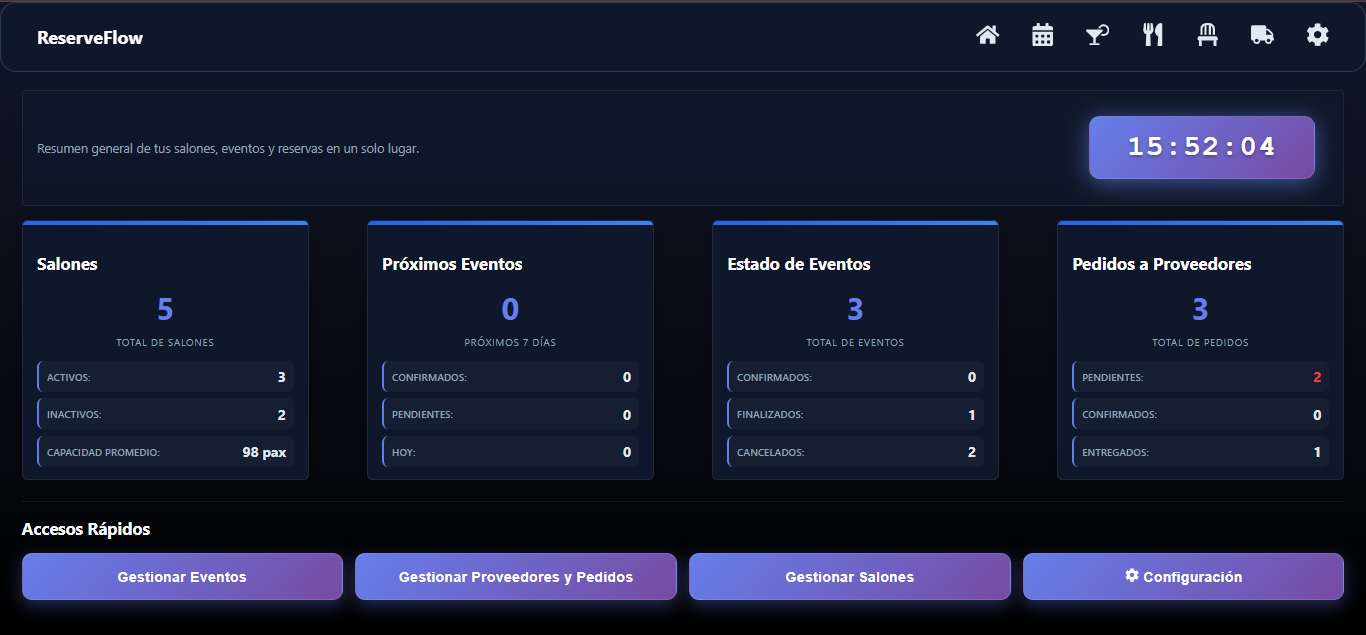
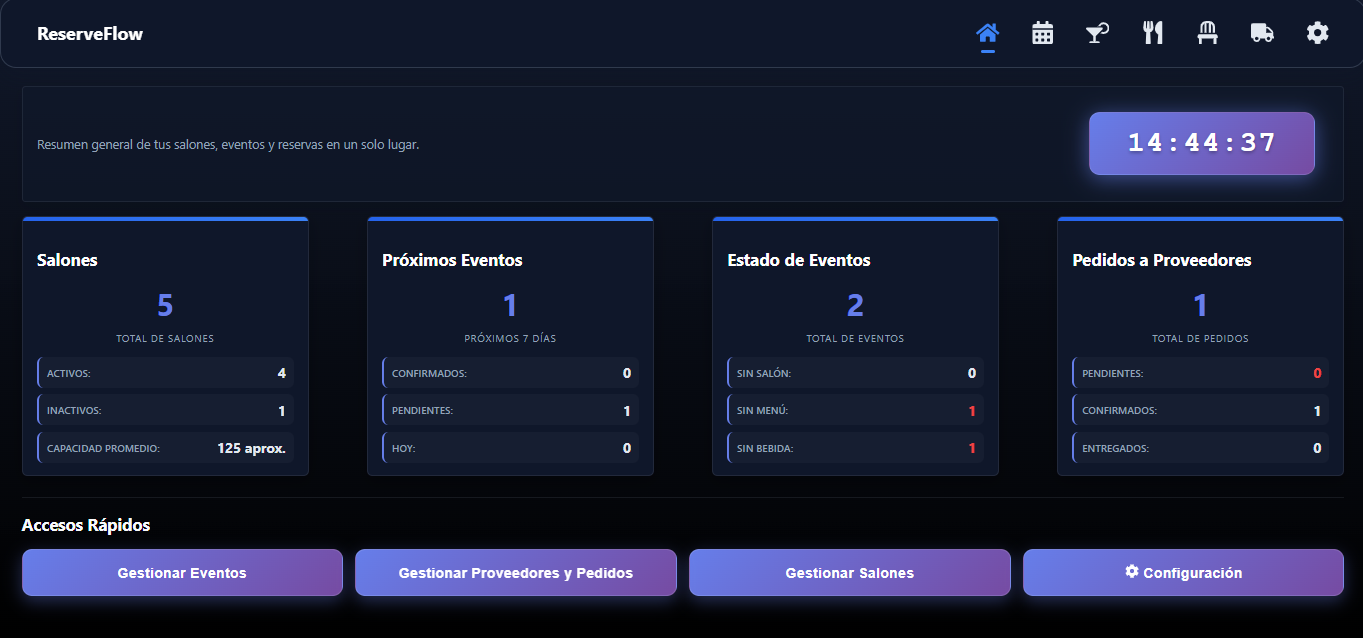
fix actualizacion

diff --git a/src/components/Projects.jsx b/src/components/Projects.jsx
@@ -4,6 +4,7 @@ import { FaGithub, FaChevronLeft, FaChevronRight, FaStar } from 'react-icons/fa'
 import dashboardImg from '../img/dashboard.png';
 import reservaImg from '../img/reserva.png';
 import proveedoresImg from '../img/proveedores.png';
+import numeriaImg from '../img/numeria.png';
 
 const projects = [
   {
@@ -20,6 +21,17 @@ const projects = [
     ]
   },
   {
+    id: 4,
+    title: 'Numeria - Gestor de Stock & Asistente IA',
+    description: 'Sistema de gestión de ventas, proveedores e inventario con control de productos críticos. Integra a "Numerito AI", un asistente inteligente potenciado por la API de Gemini para consultas operacionales en tiempo real.',
+    tags: ['React', 'TypeScript', 'Node.js', 'Python', 'Gemini API', 'SQL'],
+    githubUrl: '', // Se agregará al estar avanzado el repositorio
+    featured: true,
+    images: [
+      { url: numeriaImg, alt: 'Dashboard Numeria con Asistente IA' }
+    ]
+  },
+  {
     id: 2,
     title: 'Trimly - SaaS de Gestión Integral',
     description: 'Plataforma integral para centros de estética y peluquerías. Integra 9 módulos y más de 40 funcionalidades para automatizar turnos, caja y gestión de clientes.',
@@ -33,14 +45,6 @@ const projects = [
     description: 'Herramienta desarrollada para el cálculo automatizado de varianza, desviación estándar y distribución de frecuencias con procesamiento rápido de datos.',
     tags: ['Python', 'Librerías Matemáticas'],
     githubUrl: 'https://github.com/TomasAliberti07/Estadistica',
-    featured: false
-  },
-  {
-    id: 4,
-    title: 'Suite de Utilidades de Escritorio',
-    description: 'Colección de aplicaciones de escritorio orientadas al procesamiento de datos, lógica algorítmica y gestión gráfica (películas, generadores y herramientas de cálculo).',
-    tags: ['Python', 'Tkinter', 'POO'],
-    githubUrl: 'https://github.com/TomasAliberti07/Tkinter',
     featured: false
   }
 ];
@@ -110,15 +114,19 @@ function ProjectCard({ project }) {
               </div>
 
               <div className="project-footer">
-                <a 
-                  href={project.githubUrl} 
-                  target="_blank" 
-                  rel="noreferrer" 
-                  className="footer-link"
-                >
-                  <FaGithub />
-                  <span>Ver repositorio completo</span>
-                </a>
+                {project.githubUrl ? (
+                  <a 
+                    href={project.githubUrl} 
+                    target="_blank" 
+                    rel="noreferrer" 
+                    className="footer-link"
+                  >
+                    <FaGithub />
+                    <span>Ver repositorio completo</span>
+                  </a>
+                ) : (
+                  <span className="footer-link-disabled">Repositorio en desarrollo</span>
+                )}
               </div>
             </div>
           </div>
@@ -129,6 +137,15 @@ function ProjectCard({ project }) {
 
   return (
     <article className="project-card">
+      {project.images && project.images.length > 0 && (
+        <div className="card-image-wrapper">
+          <img 
+            src={project.images[0].url} 
+            alt={project.images[0].alt} 
+            className="project-card-image" 
+          />
+        </div>
+      )}
       <div className="project-card-body">
         <h3>{project.title}</h3>
         <p>{project.description}</p>
@@ -142,15 +159,19 @@ function ProjectCard({ project }) {
         </div>
 
         <div className="project-footer">
-          <a 
-            href={project.githubUrl} 
-            target="_blank" 
-            rel="noreferrer" 
-            className="footer-link"
-          >
-            <FaGithub />
-            <span>Ver repositorio completo</span>
-          </a>
+          {project.githubUrl ? (
+            <a 
+              href={project.githubUrl} 
+              target="_blank" 
+              rel="noreferrer" 
+              className="footer-link"
+            >
+              <FaGithub />
+              <span>Ver repositorio completo</span>
+            </a>
+          ) : (
+            <span className="footer-link-disabled">Repositorio en desarrollo</span>
+          )}
         </div>
       </div>
     </article>

diff --git a/src/App.css b/src/App.css
@@ -284,6 +284,23 @@ main {
   box-shadow: 0 0 0 1px rgba(239, 68, 68, 0.12), 0 10px 24px rgba(0, 0, 0, 0.24);
 }
 
+.card-image-wrapper {
+  width: 100%;
+  aspect-ratio: 16 / 9;
+  border-radius: 12px;
+  overflow: hidden;
+  background-color: #090d16;
+  border: 1px solid rgba(255, 255, 255, 0.1);
+  margin-bottom: 1rem;
+}
+
+.project-card-image {
+  width: 100%;
+  height: 100%;
+  object-fit: cover;
+  display: block;
+}
+
 .project-card-body {
   flex: 1;
 }
@@ -346,6 +363,16 @@ main {
 
 .project-footer {
   margin-top: 1.2rem;
+}
+
+.footer-link-disabled {
+  display: inline-flex;
+  align-items: center;
+  gap: 0.4rem;
+  color: #71717a;
+  font-size: 0.85rem;
+  font-style: italic;
+  user-select: none;
 }
 
 /* Carrusel Responsivo */
